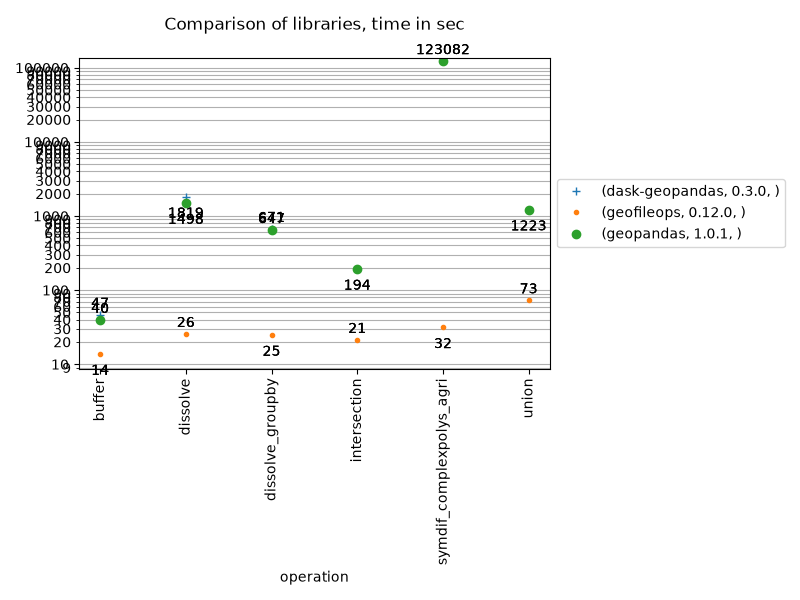
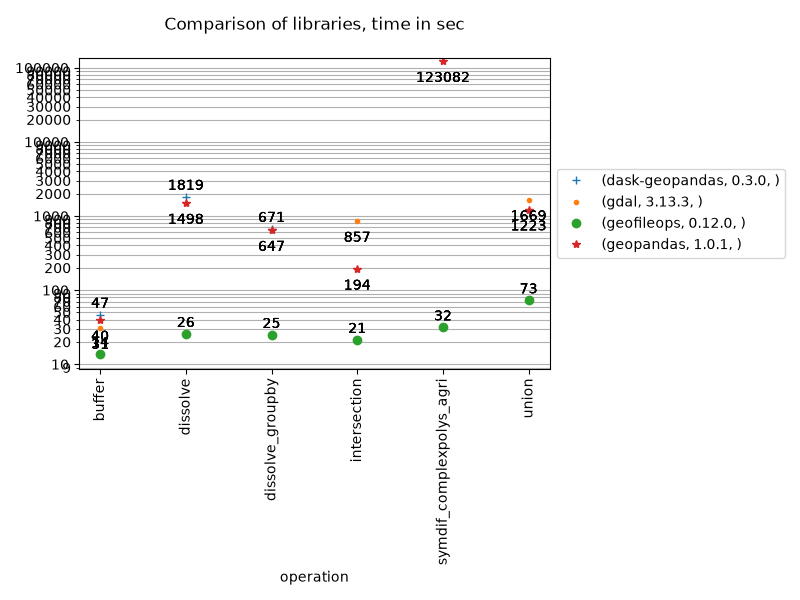
ENH: add benchmarks for gdal

diff --git a/benchmarks_vector_ops/benchmarks_gdal.py b/benchmarks_vector_ops/benchmarks_gdal.py
@@ -1,0 +1,145 @@
+"""Module to benchmark GDAL vector algorithms."""
+
+from datetime import datetime
+import logging
+from pathlib import Path
+
+import geofileops as gfo
+from osgeo import gdal
+import shapely
+
+from benchmarker import RunResult
+import testdata
+
+logger = logging.getLogger(__name__)
+
+gdal.UseExceptions()
+
+_package = "gdal"
+_package_version = gdal.VersionInfo("RELEASE_NAME")
+
+
+def buffer(tmp_dir: Path) -> RunResult:
+    input_path, _ = testdata.TestFile.AGRIPRC_2018.get_file(tmp_dir)
+    output_path = tmp_dir / f"{input_path.stem}_{_package}_buffer.gpkg"
+
+    start_time = datetime.now()
+    try:
+        with gdal.alg.vector.buffer(
+            input=str(input_path),
+            output=str(output_path),
+            distance=1,
+            quadrant_segments=5,
+            output_format="GPKG",
+            overwrite=True,
+        ):
+            pass
+
+        secs_taken = (datetime.now() - start_time).total_seconds()
+        logger.info(f"buffer took {secs_taken:.2f} s")
+        return RunResult(
+            package=_package,
+            package_version=_package_version,
+            operation="buffer",
+            secs_taken=secs_taken,
+            operation_descr="buffer agri parcels BEFL (~500k polygons)",
+        )
+    finally:
+        output_path.unlink(missing_ok=True)
+
+
+def _layer_algebra(
+    tmp_dir: Path,
+    input_path: Path,
+    method_path: Path,
+    operation: str,
+    operation_name: str,
+    operation_descr: str,
+) -> RunResult:
+    output_path = (
+        tmp_dir
+        / f"{input_path.stem}_{operation_name}_{method_path.stem}_{_package}.gpkg"
+    )
+
+    start_time = datetime.now()
+    try:
+        with gdal.alg.vector.layer_algebra(
+            input=str(input_path),
+            method=str(method_path),
+            output=str(output_path),
+            operation=operation,
+            output_format="GPKG",
+            overwrite=True,
+        ):
+            pass
+
+        secs_taken = (datetime.now() - start_time).total_seconds()
+        logger.info(f"{operation_name} took {secs_taken:.2f} s")
+        return RunResult(
+            package=_package,
+            package_version=_package_version,
+            operation=operation_name,
+            secs_taken=secs_taken,
+            operation_descr=operation_descr,
+        )
+    finally:
+        output_path.unlink(missing_ok=True)
+
+
+def intersection(tmp_dir: Path) -> RunResult:
+    input_path, _ = testdata.TestFile.AGRIPRC_2018.get_file(tmp_dir)
+    method_path, _ = testdata.TestFile.AGRIPRC_2019.get_file(tmp_dir)
+
+    return _layer_algebra(
+        tmp_dir=tmp_dir,
+        input_path=input_path,
+        method_path=method_path,
+        operation="intersection",
+        operation_name="intersection",
+        operation_descr="intersection of 2 agri parcel layers BEFL (2*~500k polygons)",
+    )
+
+
+def union(tmp_dir: Path) -> RunResult:
+    input_path, _ = testdata.TestFile.AGRIPRC_2018.get_file(tmp_dir)
+    method_path, _ = testdata.TestFile.AGRIPRC_2019.get_file(tmp_dir)
+
+    return _layer_algebra(
+        tmp_dir=tmp_dir,
+        input_path=input_path,
+        method_path=method_path,
+        operation="union",
+        operation_name="union",
+        operation_descr="union of 2 agri parcel layers BEFL (2*~500k polygons)",
+    )
+
+
+def _symdif_complexpolys_agri(tmp_dir: Path) -> RunResult:
+    """Symmetric difference of agricultural parcels with complex polygons.
+
+    Test is disabled by default as I stopped it after 53 hours without being completed.
+    """
+    input_path, input_descr = testdata.TestFile.AGRIPRC_2018.get_file(tmp_dir)
+    info = gfo.get_layerinfo(input_path)
+    bbox = shapely.box(*info.total_bounds).buffer(-10_000, join_style="mitre").bounds
+    method_path, method_descr = testdata.create_testfile(
+        bbox=bbox,
+        geoms=3,
+        polys_per_geom=4,
+        points_per_poly=30_000,
+        poly_width=30_000,
+        poly_height=30_000,
+        crs=info.crs,
+        dst_dir=tmp_dir,
+    )
+
+    return _layer_algebra(
+        tmp_dir=tmp_dir,
+        input_path=input_path,
+        method_path=method_path,
+        operation="sym-difference",
+        operation_name="symdif_complexpolys_agri",
+        operation_descr=(
+            f"symdif_complexpolys_agri between {input_descr} and {method_descr}"
+        ),
+    )

diff --git a/reproduce_gdal_algorithm_open_handle.py b/reproduce_gdal_algorithm_open_handle.py
@@ -1,0 +1,71 @@
+"""Reproduce an open output handle retained by a GDAL Algorithm."""
+
+import json
+import os
+from pathlib import Path
+import tempfile
+
+from osgeo import gdal
+
+gdal.UseExceptions()
+
+
+with tempfile.TemporaryDirectory(prefix="gdal-algorithm-handle-") as temp_dir:
+    temp_path = Path(temp_dir)
+    input_path = temp_path / "input.geojson"
+    input_path.write_text(
+        json.dumps(
+            {
+                "type": "FeatureCollection",
+                "features": [
+                    {
+                        "type": "Feature",
+                        "properties": {"id": 1},
+                        "geometry": {
+                            "type": "Polygon",
+                            "coordinates": [[[0, 0], [1, 0], [1, 1], [0, 1], [0, 0]]],
+                        },
+                    }
+                ],
+            }
+        ),
+        encoding="utf-8",
+    )
+
+    output_path = temp_path / "buffered.gpkg"
+    algorithm = gdal.alg.vector.buffer(
+        input=input_path,
+        output=output_path,
+        distance=1,
+        output_format="GPKG",
+        overwrite=True,
+    )
+
+    try:
+        try:
+            output_path.unlink()
+        except PermissionError as error:
+            print(f"Unlink before Finalize(): blocked as expected ({error})")
+        else:
+            raise RuntimeError(
+                "Unlink succeeded while the GDAL Algorithm was still alive."
+            )
+    finally:
+        algorithm.Finalize()
+    output_path.unlink()
+    print("Unlink after Finalize(): succeeded")
+
+    context_output_path = temp_path / "buffered_with.gpkg"
+    with gdal.alg.vector.buffer(
+        input=input_path,
+        output=context_output_path,
+        distance=1,
+        output_format="GPKG",
+        overwrite=True,
+    ):
+        pass
+    context_output_path.unlink()
+
+    print(f"GDAL version: {gdal.VersionInfo('RELEASE_NAME')}")
+    print("Unlink after leaving with: succeeded")
+    print("Reproduced: the output is locked until the Algorithm is finalized.")

diff --git a/run_benchmarks_vector_ops.py b/run_benchmarks_vector_ops.py
@@ -8,7 +8,8 @@ def main():
         benchmarker.run_benchmarks(
             benchmarks_subdir="benchmarks_vector_ops",
             results_subdir="results_vector_ops",
-            modules=["benchmarks_geofileops"],
+            # modules=["benchmarks_geofileops"],
+            modules=["benchmarks_gdal"],
             # modules=["benchmarks_geopandas"],
             # modules=["benchmarks_dask_geopandas"],
             # functions=["buffer"],

diff --git a/benchmarks_vector_ops/benchmarks_geopandas.py b/benchmarks_vector_ops/benchmarks_geopandas.py
@@ -225,6 +225,8 @@ def _symdif_complexpolys_agri(tmp_dir: Path) -> RunResult:
         - the area for each (multipolygon) is a lot larger than the standard polygons,
           so each complex polygon interacts with many standard polygons
 
+    Test is disabled by default as it runs 32 hours.
+
     Changelog:
 
         - 2025-01-23: make complex polygons a lot more complex to be able to see the

diff --git a/README.md b/README.md
@@ -25,6 +25,15 @@ with a lot of caution!
 Especially the buffer benchmark is at the time of writing for 90% I/O bound 
 in geopandas!
 
+GDAL vector algorithms are also benchmarked for buffer, intersection, union,
+and symmetric difference. They use GDAL's Python API (`osgeo.gdal.alg.vector`)
+and are included in the same read-operation-write timing. The vector-ops Conda
+environment installs GDAL 3.12 or newer for these algorithms.
+
+GDAL's vector dissolve algorithm does not match the cross-feature or grouped
+dissolve scenarios benchmarked here, so those operations are not included for
+GDAL.
+
 The test files used are not that large (eg. 500k polygons, 350 MB .gpkg), 
 but try to strike a balance between being large enough to give an idea on 
 processing time to expect versus the time spent waiting for a benchmark to be 
